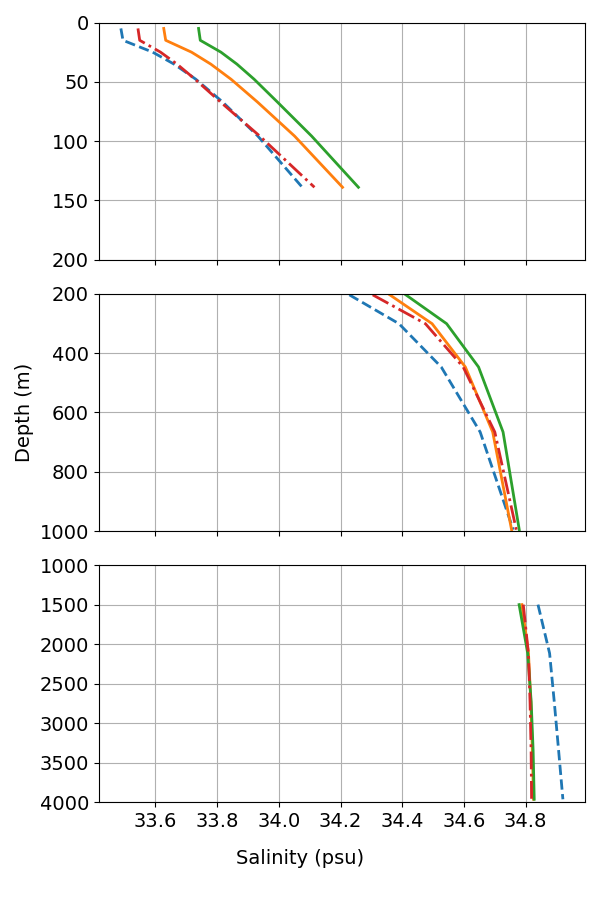
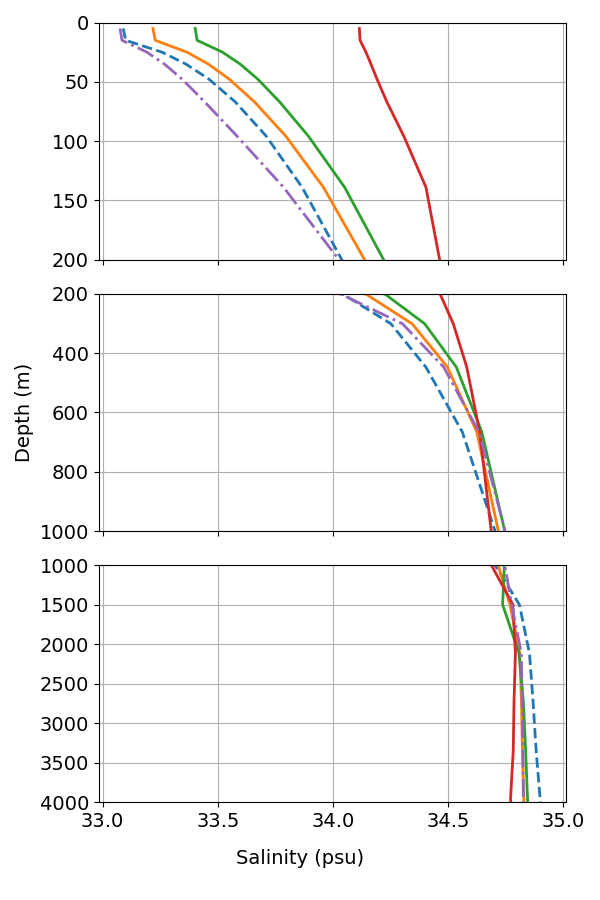
density changes on laptop

diff --git a/MOC/plot_density_by_basin.py b/MOC/plot_density_by_basin.py
@@ -58,9 +58,23 @@ def calculate_density(filename):
     CT = gsw.CT_from_t(SA, T_cube.data, pressmesh)
 
     # calculate density (rho potential) referenced to 2000m
+    print(SA.shape,'SA',SA[0,:,20,50])
+    print('salinity',S_cube.data[0,:,20,50])
+    print('diff sali',SA[0,:,20,50]-S_cube.data[0,:,20,50])
+    print(lonmesh[0,20,50],latmesh[0,20,50],pressmesh[0,20,50])
+    print(' ')
+    print(' ')
+    print(CT.shape,'CT',CT[0,:,20,50])
+    print(CT.shape,'temp',T_cube.data[0,:,20,50])
+    print('diff',CT[0,:,20,50] - T_cube.data[0,:,20,50])
+    print(' ')
+    print(' ')
     rho_potential = gsw.rho(SA,CT,2000) - 1000.
+    for i in range(0,18):
+        print('rhopot',rho_potential[0,i,20,50],CT[0,i,20,50],SA[0,i,20,50])
     #print(rho_potential.mask)
     rho_potential = np.where(rho_potential.mask,-99999,rho_potential)
+    sys.exit(0)
     
     rho_potential_cube = T_cube.copy(data=rho_potential)
     iris.util.mask_cube(rho_potential_cube,T_cube.data.mask,in_place=True)
@@ -229,7 +243,7 @@ def process_data(filename,basin,year):
 
 
 ###########################################################    
-def plot_anomaly(exptname,cntlname,startyear,endyear,cntlstart,cntlend,basin):
+def plot_anomaly(exptname,cntlname,startyear,endyear,cntlstart,cntlend,basin,region):
     """
     plots the difference in density salinity and temperature between two 
     experiments
@@ -255,13 +269,26 @@ def plot_anomaly(exptname,cntlname,startyear,endyear,cntlstart,cntlend,basin):
     dens_anom = expt_dens_cube - cntl_dens_cube
     sal_anom = expt_sal_cube - cntl_sal_cube
 
+    if region == 'SH':   # extract southwards of 40deg and upwards of 2000m
+        constraint1 = iris.Constraint(latitude = lambda cell: -80 < cell <  -40)
+        constraint2 = iris.Constraint(depth_1 = lambda cell: cell < 2200)
+        
+        int1 = temp_anom.extract(constraint1)
+        temp_anom = int1.extract(constraint2)
+
+        int1 = dens_anom.extract(constraint1)
+        dens_anom = int1.extract(constraint2)
+
+        int1 = sal_anom.extract(constraint1)
+        sal_anom = int1.extract(constraint2)
+      
     vals = np.arange(-2.0,2.5,0.5)
     if cntlname !='xqbwc':
         vals = np.arange(-2.0,2.25,0.25)
         vals2 = [-1.5,-1.0,-0.5,0,0.5,1.0,1.5]
     print(vals)
-    cs=iplt.contourf(temp_anom,levels=vals,extend='both',cmap='RdBu_r')
-    iplt.contour(temp_anom,levels=vals2)
+    cs=iplt.contourf(temp_anom,levels=vals/2.0,extend='both',cmap='RdBu_r')
+    #iplt.contour(temp_anom,levels=vals2)
     plt.xlabel('Latitude (degrees)')
     plt.ylabel('Depth (m)')
     cb=plt.colorbar(cs,orientation='horizontal')
@@ -269,7 +296,7 @@ def plot_anomaly(exptname,cntlname,startyear,endyear,cntlstart,cntlend,basin):
     plt.title(basin + ' Temperature anomaly: '+ exptname + '-'+ cntlname)
     plt.savefig(FILEINIT + 'um/' + exptname +
                   '/basin_diagnostics/meanT_' + exptname + '-' + cntlname + '_'
-                + basin + str(startyear) + '_' + str(endyear-1)+'.png')
+                + basin + str(startyear) + '_' + str(endyear-1)+region+'.png')
     plt.close()
 
     vals = np.arange(-0.3,0.33,0.03)
@@ -278,7 +305,7 @@ def plot_anomaly(exptname,cntlname,startyear,endyear,cntlstart,cntlend,basin):
     plt.savefig(FILEINIT + 'um/' + exptname +
                   '/basin_diagnostics/meandens_' + exptname + '-' +
                 cntlname + '_'
-                + basin + str(startyear) + '_' + str(endyear-1)+'.png')
+                + basin + str(startyear) + '_' + str(endyear-1)+region+'.png')
     plt.close()
 
     vals = np.arange(-0.5,0.55,0.05)
@@ -292,7 +319,7 @@ def plot_anomaly(exptname,cntlname,startyear,endyear,cntlstart,cntlend,basin):
     plt.savefig(FILEINIT + 'um/' + exptname +
                   '/basin_diagnostics/meansal_' + exptname + '-' +
                 cntlname + '_' + basin + str(startyear) + '_' +
-                str(endyear-1)+'.png')
+                str(endyear-1)+region+'.png')
     plt.close()
    
     
@@ -425,11 +452,12 @@ def plot_Pacific_and_Atlantic(exptname,startyear,endyear,lev):
 
 
 #######################################################################
-exptname = 'xpsid'
-startyear=2000
-endyear=3000
+exptname = 'xpsig'
+startyear=1400
+endyear=1500
 basin='Pacific'
-FILEINIT = '/uolstore/Research/a/hera1/earjcti/'
+#FILEINIT = '/uolstore/Research/a/hera1/earjcti/'
+FILEINIT = '/home/earjcti/'
 
 period = {'xpsid':'LP','xpsij':'LP490','xpsie':'EP400','xpsig':'EP',
           'xpsic':'PI','xqbwd':'LP','xqbwj':'LP490','xqbwe':'EP400',
@@ -439,10 +467,10 @@ period = {'xpsid':'LP','xpsij':'LP490','xpsie':'EP400','xpsig':'EP',
 
 
 # get individual years diagnostics for the basin
-for year in range(startyear,endyear):
-    filestart = FILEINIT + 'um/' + exptname + '/pg/' + exptname 
-    filename = filestart + 'o#pg00000'+str(year)+'c1+.nc'
-    process_data(filename,basin,year)
+#for year in range(startyear,endyear):
+#    filestart = FILEINIT + 'um/' + exptname + '/pg/' + exptname 
+#    filename = filestart + 'o#pg00000'+str(year)+'c1+.nc'
+#    process_data(filename,basin,year)
 
 #################################################
 # get the mean dianostics for the basin
@@ -477,16 +505,17 @@ for year in range(startyear,endyear):
 #iris.save([dens_avg_cube,temp_avg_cube,sal_avg_cube],
 #          fileout,fill_value = -99999.)
    
-sys.exit(0)
+#sys.exit(0)
 ################################################
 # plot anomalies
 
-cntlname = 'xqbwq'
+cntlname = 'xpsid'
 cntlstart=startyear
 cntlend=endyear
-#cntlstart=1400
-#cntlend=1500
-plot_anomaly(exptname,cntlname,startyear,endyear,cntlstart,cntlend,basin)
+cntlstart=1400
+cntlend=1500
+region_ind='SH' # 'SH' - SH, '' - globe
+plot_anomaly(exptname,cntlname,startyear,endyear,cntlstart,cntlend,basin,region_ind)
 #plot_Pacific_and_Atlantic(exptname,startyear,endyear,0)  # the last number is the level
 
 sys.exit(0)

diff --git a/MOC/plot_density_with_depth.py b/MOC/plot_density_with_depth.py
@@ -11,7 +11,7 @@ import sys
 
 # --- File setup ---
 
-field='Temperature'  #density, Temperature, salinity
+field='salinity'  #density, Temperature, salinity
 fieldname = {'density':'insitu_T_0','Temperature':'insitu_T_1'}             
 linestyles = {'LP':'--','EP':'dashdot'}
 
@@ -21,13 +21,13 @@ filestart = '/home/earjcti/um/'+expt+'/basin_diagnostics/mean_'+expt+'_Pacific'
 filename1 = filestart + '1400_1499.nc'
 filename2 = filestart.replace('xpsid', 'xpsie') + '1400_1499.nc'
 filename3 = filestart.replace('xpsid', 'xpsie') + '1600_1699.nc'
-#filename4 = filestart.replace('xpsid', 'xpsie') + '2000_2099.nc'
+filename4 = filestart.replace('xpsid', 'xqbwe') + '3970_3999.nc'
 filename5 = filestart.replace('xpsid', 'xpsig') + '1400_1499.nc'
 
-#filenames = [filename1, filename2, filename3,filename4,filename5]
-filenames = [filename1, filename2, filename3,filename5]
+filenames = [filename1, filename2, filename3,filename4,filename5]
+#filenames = [filename1, filename2, filename3,filename5]
 #filenames = [filename1]
-legends   = ['LP', 'EP400:1400', 'EP400:1600','EP']
+legends   = ['LP', 'EP400:1400', 'EP400:1600','EP400_3900','EP']
 #legends = [expt]
 depth_name = 'depth_1'
 lat_name   = 'latitude'
@@ -48,7 +48,7 @@ for i, file_path in enumerate(filenames):
 
     # Select latitudes south of 60S
     valmin=-90  # should be None
-    valmax=-60  # should be -60
+    valmax=-70  # should be -60
     #density_south = density.sel(latitude= slice(None,-60))
     density_south = density.sel(latitude= slice(valmin,valmax))
     #print(density_south[depth_name].values)
@@ -75,13 +75,11 @@ for i, file_path in enumerate(filenames):
     for ax, (dmin, dmax) in zip(axes, ranges):
         dcoord = dens_w[depth_name]
         mask   = (dcoord >= dmin) & (dcoord <= dmax)
-        dens_band  = dens_w.where(mask, drop=True)
-        depth_band = dcoord.where(mask, drop=True)
-
+     
         if i==0 and abs_anom_ind == 'anom':
             pass
         else:
-            ax.plot(dens_band.values, depth_band.values, label=legends[i], linewidth=2,linestyle=linestyles.get(legends[i],None))
+            ax.plot(dens_w.values, dcoord.values, label=legends[i], linewidth=2,linestyle=linestyles.get(legends[i],None))
         
             #ax.set_title(f'{dmin}-{dmax} m', fontsize=12)
             ax.tick_params(axis='both',which='major',labelsize=14)

diff --git a/PLIOMIP3/timeseries_plots/plot_salinity_diff_666_203.py b/PLIOMIP3/timeseries_plots/plot_salinity_diff_666_203.py
@@ -78,7 +78,7 @@ for expt in exptnames:
         filename = filestart + '12_2999_'+lat+'.txt'
   
     x, y = read_data(filename)
-    window=1
+    window=30
     y_mean=running_mean(y,window)
     x_mean=x[window-1:]
 
@@ -94,7 +94,8 @@ plt.xlabel('year',fontsize=16)
 plt.ylabel('psu',fontsize=16)
 plt.xticks(fontsize=16)
 plt.yticks(fontsize=16)
-plt.xlim(900,1000)
+plt.axvline(x=1803,color='red',linestyle='--')
+#plt.xlim(900,1000)
 #plt.legend(fontsize=14)
 plt.grid(True)
 

diff --git a/PLIOMIP3/timeseries_plots/plot_dens_diff_666_203.py b/PLIOMIP3/timeseries_plots/plot_dens_diff_666_203.py
@@ -96,6 +96,7 @@ plt.xticks(fontsize=16)
 plt.yticks(fontsize=16)
 plt.xlim(0,3000)
 #plt.legend(fontsize=14)
+plt.axvline(x=1803,color='red',linestyle='--')
 plt.grid(True)
 
 # Hide bottom spine and all x ticks/labels

diff --git a/PLIOMIP3/timeseries_plots/plot_dens_diff_203_5.py b/PLIOMIP3/timeseries_plots/plot_dens_diff_203_5.py
@@ -95,6 +95,8 @@ plt.ylabel('kg/m$^3$',fontsize=16)
 plt.xticks(fontsize=16)
 plt.yticks(fontsize=16)
 plt.xlim(0,3000)
+plt.axvline(x=1803,color='red',linestyle='--')
+
 #plt.legend(fontsize=14)
 plt.grid(True)
 

diff --git a/PLIOMIP3/timeseries_plots/plot_temp_diff_203_5.py b/PLIOMIP3/timeseries_plots/plot_temp_diff_203_5.py
@@ -95,6 +95,8 @@ plt.ylabel('$^o$C',fontsize=16)
 plt.xticks(fontsize=16)
 plt.yticks(fontsize=16)
 plt.xlim(0,3000)
+plt.axvline(x=1803,color='red',linestyle='--')
+
 #plt.legend(fontsize=14)
 plt.grid(True)
 

diff --git a/PLIOMIP3/timeseries_plots/plot_sal_diff_203_5.py b/PLIOMIP3/timeseries_plots/plot_sal_diff_203_5.py
@@ -95,6 +95,7 @@ plt.ylabel('psu',fontsize=16)
 plt.xticks(fontsize=16)
 plt.yticks(fontsize=16)
 plt.xlim(0,3000)
+plt.axvline(x=1803,color='red',linestyle='--')
 #plt.legend(fontsize=14)
 plt.grid(True)
 
